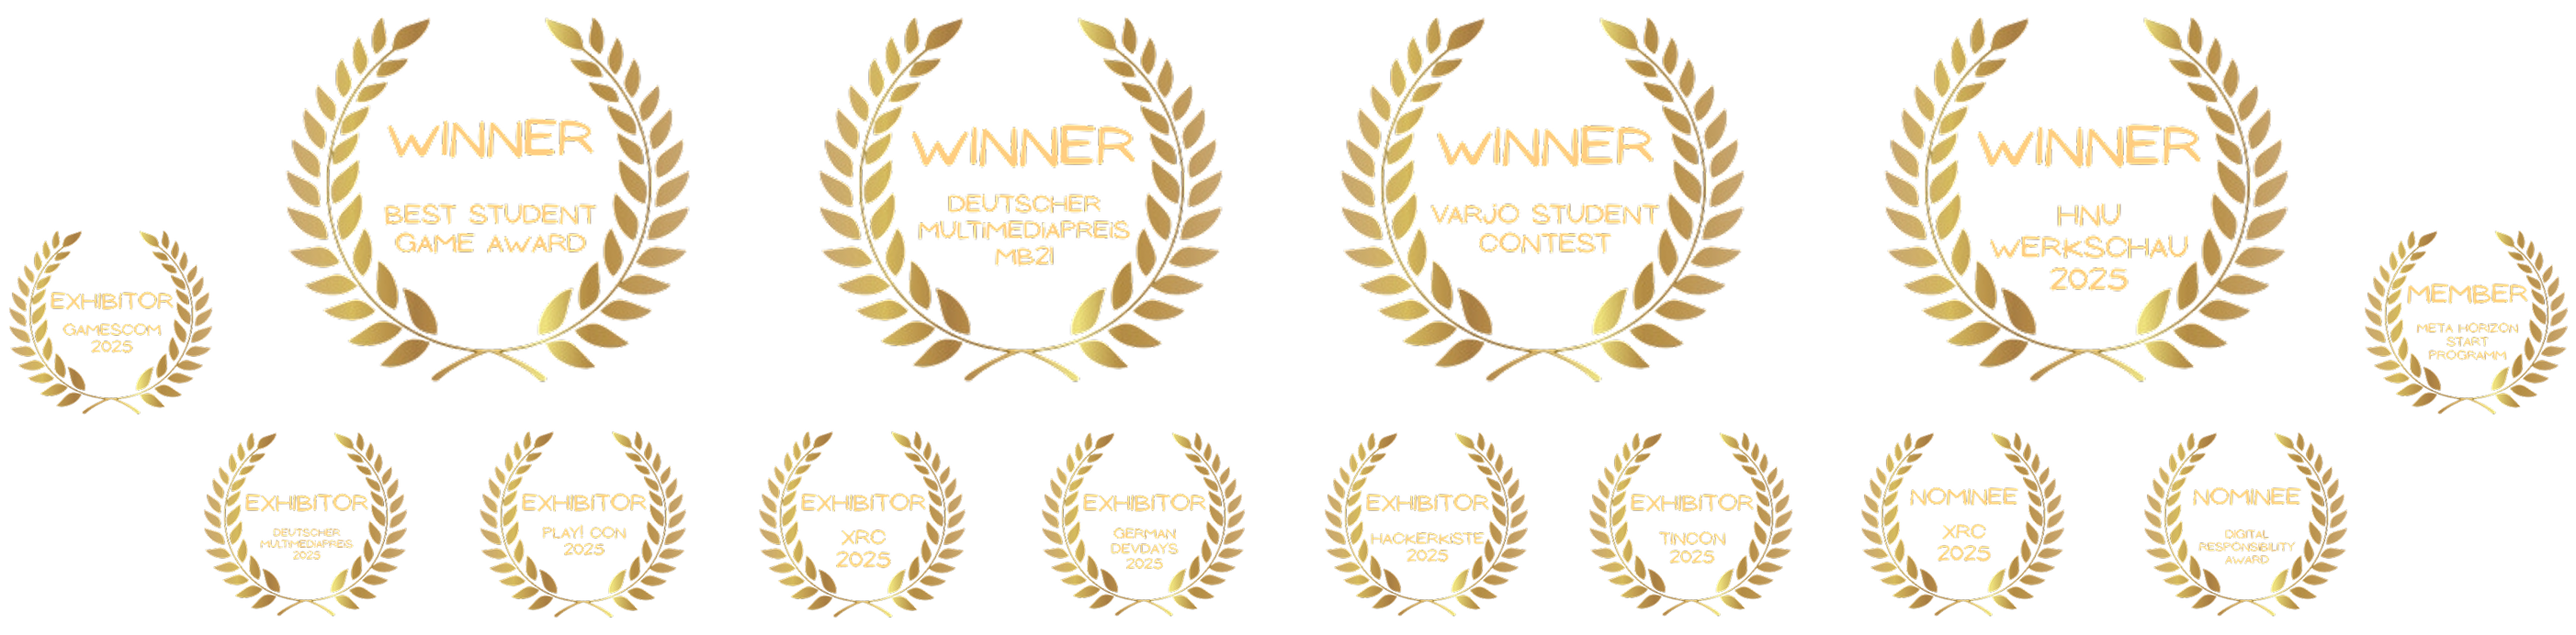
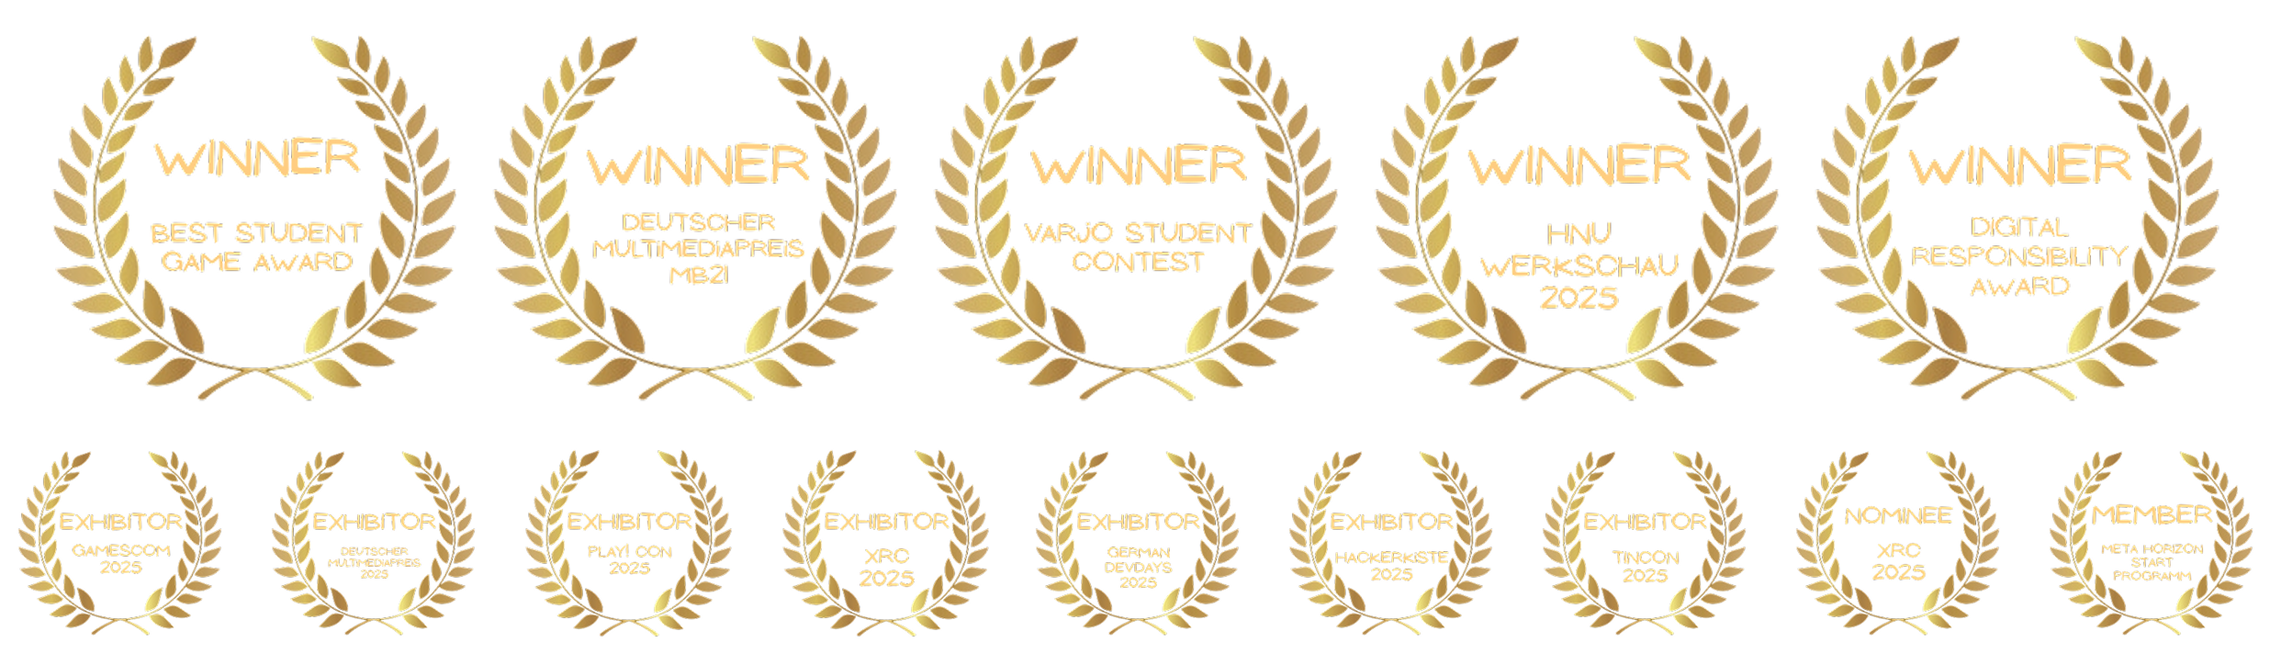
Removed About Me

diff --git a/index.html b/index.html
@@ -40,7 +40,7 @@
       <ul class="nav-links">
         <li><a id="projectsS" href="#projects">Projects</a></li>
         <li><a id="insightsS" href="#insights">Performance Guide</a></li>
-        <li><a id="aboutT" href="#about">About</a></li>
+        <!--<li><a id="aboutT" href="#about">About</a></li>-->
         <li><a id="contactT" href="#contact">Contact</a></li>
       </ul>
     </div>
@@ -57,7 +57,7 @@
       <ul class="menu-links">
         <li><a id="projectsSS" href="#projects">Projects</a></li>
         <li><a id="insightsSS" href="#insights">Performance Guide</a></li>
-        <li><a id="aboutTT" href="#about">About</a></li>
+        <!--<li><a id="aboutTT" href="#about">About</a></li>-->
         <li><a id="contactTT" href="#contact">Contact</a></li>
       </ul>
     </div>
@@ -102,10 +102,15 @@
                     Your browser does not support videos.
                   </video>
                 </div>
-                <div class="project-title-container">
-                  <h2 id="floattitle" class="experience-sub-title project-title">
-                    <span style="display: block;  line-height: 1.1; margin-top: 5px;">
-                      Award-winning MR for prosthetics research
+                <div class="project-title-container" style="flex-direction: column; padding-bottom: 0;">
+                  <h2 style="font-size: 2.5rem; margin: 0;">
+                    <span style="display: block;">
+                      FLOAT
+                    </span>
+                  </h2>
+                  <h2 id="floattitle" class="experience-sub-title project-title" style="margin: 0.5rem 0 0 0;">
+                    <span style="display: block; line-height: 1.1;">
+                      Award-winning MR for prosthesis research
                     </span>
                   </h2>
                 </div>
@@ -369,10 +374,14 @@
                     Your browser does not support videos.
                   </video>
                 </div>
-                <div class="project-title-container">
-                  <h2 id="mercurytitle" class="experience-sub-title project-title">
-
-                    <span style="display: block; line-height: 1.1; margin-top: 5px;">
+                <div class="project-title-container" style="flex-direction: column; padding-bottom: 0;">
+                  <h2 style="font-size: 2.5rem; margin: 0;">
+                    <span style="display: block;">
+                      MERCURY
+                    </span>
+                  </h2>
+                  <h2 id="mercurytitle" class="experience-sub-title project-title" style="margin: 0.5rem 0 0 0;">
+                    <span style="display: block; line-height: 1.1;">
                       World's first fast-paced hand-tracking brawler
                     </span>
                   </h2>
@@ -381,12 +390,13 @@
 
                   <div class="mercury-punch-group" style="position: relative;">
 
-                    <a id="mercury-itch-btn" href="https://mouseworks.itch.io/mercury" target="_blank"
-                      rel="noopener noreferrer" class="btn btn-color-2 project-btn"
+                    <a id="mercury-itch-btn"
+                      href="https://www.meta.com/de-de/experiences/mercury-tech-showcase/26112223728394256/"
+                      target="_blank" rel="noopener noreferrer" class="btn btn-color-2 project-btn"
                       style="text-decoration: none; display: inline-flex; align-items: center;">
-                      <img src="./assets/itch_red.png" alt="Itch.io"
+                      <img src="./assets/meta.png" alt="Meta"
                         style="width: 1.2rem; height: auto; margin-right: 0.5rem; vertical-align: middle;">
-                      Itch.io
+                      Meta
                     </a>
 
                     <div class="mercury-animation-wrapper">
@@ -577,14 +587,21 @@
                     Your browser does not support videos.
                   </video>
                 </div>
-                <div class="project-title-container">
-                  <h2 id="godofaculttitle" class="experience-sub-title project-title">
 
-                    <span style="display: block; line-height: 1.1; margin-top: 5px;">
+                <div class="project-title-container"
+                  style="flex-direction: column; justify-content: flex-start; padding-top: 1rem; margin-bottom: clamp(0rem, 4vw, 3rem);">
+                  <h2 style="font-size: 2.5rem; margin: 0;">
+                    <span style="display: block;">
+                      God of a Cult
+                    </span>
+                  </h2>
+                  <h2 id="godofaculttitle" class="experience-sub-title project-title" style="margin: 0.5rem 0 0 0;">
+                    <span style="display: block; line-height: 1.1;">
                       Expandable comedic point-and-click
                     </span>
                   </h2>
                 </div>
+
                 <div class="btn-container">
 
 
@@ -874,6 +891,7 @@
     </div>
   </section>
 
+  <!--
   <section id="about">
     <h1 id="AboutMe" class="title">About Me</h1>
     <div class="section-container">
@@ -902,6 +920,7 @@
       </div>
     </div>
   </section>
+-->
 
   <section id="contact">
     <h1 id="Contact" class="title">Contact Me</h1>
@@ -930,7 +949,7 @@
         <ul class="nav-links">
           <li><a id="projects3" href="#projects">Projects</a></li>
           <li><a id="insights3" href="#insights">Performance Guide</a></li>
-          <li><a id="about3" href="#about">About</a></li>
+          <!--<li><a id="about3" href="#about">About</a></li>-->
           <li><a id="contact3" href="#contact">Contact</a></li>
         </ul>
       </div>

diff --git a/style_min.css b/style_min.css
@@ -831,7 +831,6 @@ footer {
 
 .project-title-container {
     height: auto;
-    padding: 1rem 0;
     min-height: 3.75rem;
     display: flex;
     align-items: center;
@@ -2894,4 +2893,10 @@ video::-webkit-media-controls-time-remaining-display {
 img.zoomable,
 video.zoomable {
     cursor: zoom-in;
+}
+
+@media (min-width: 43.75rem) {
+    .about-containers>.details-container.color-container {
+        max-width: min(50rem, calc(50% - 0.5rem)) !important;
+    }
 }
